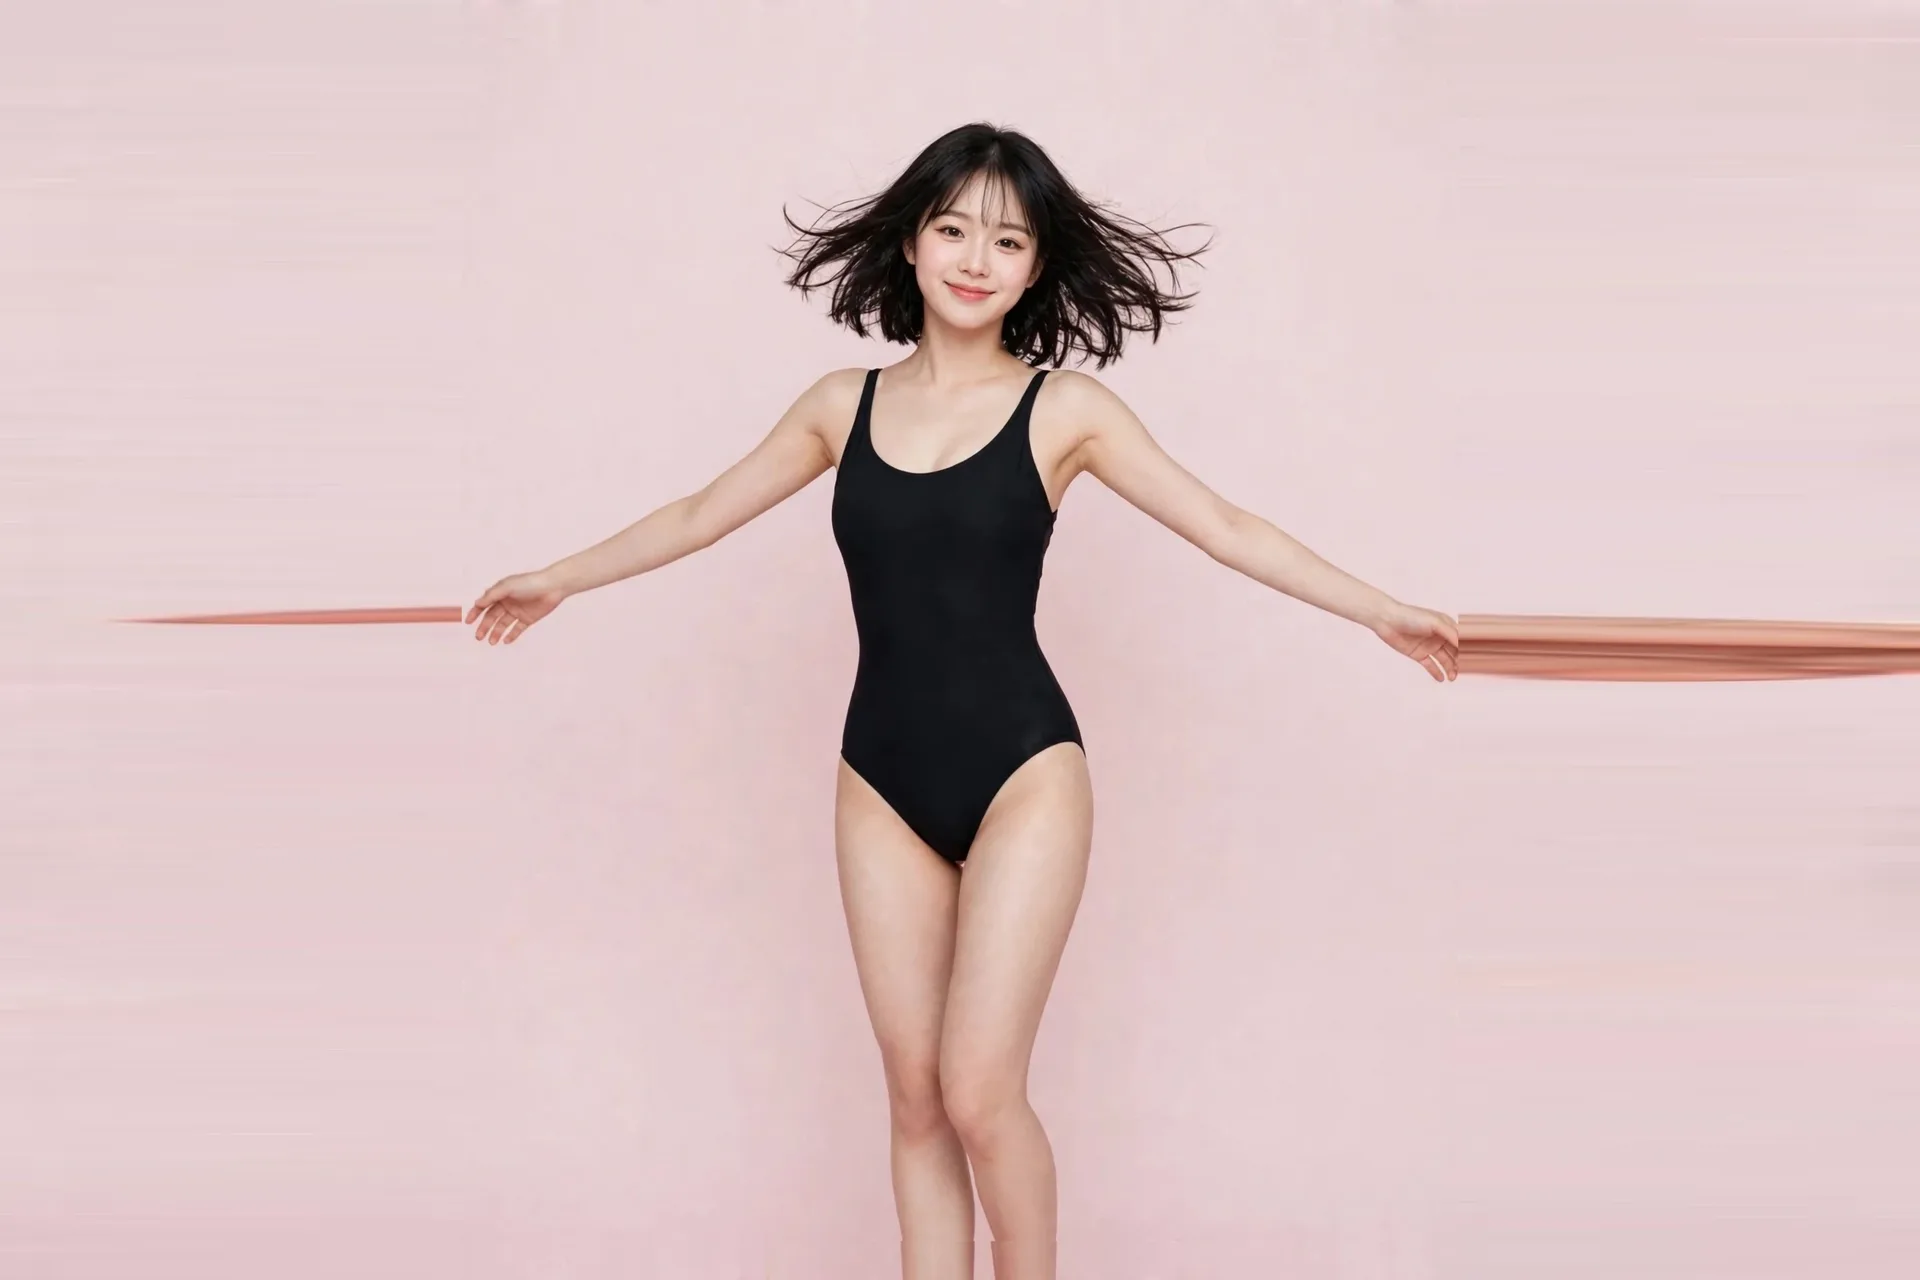
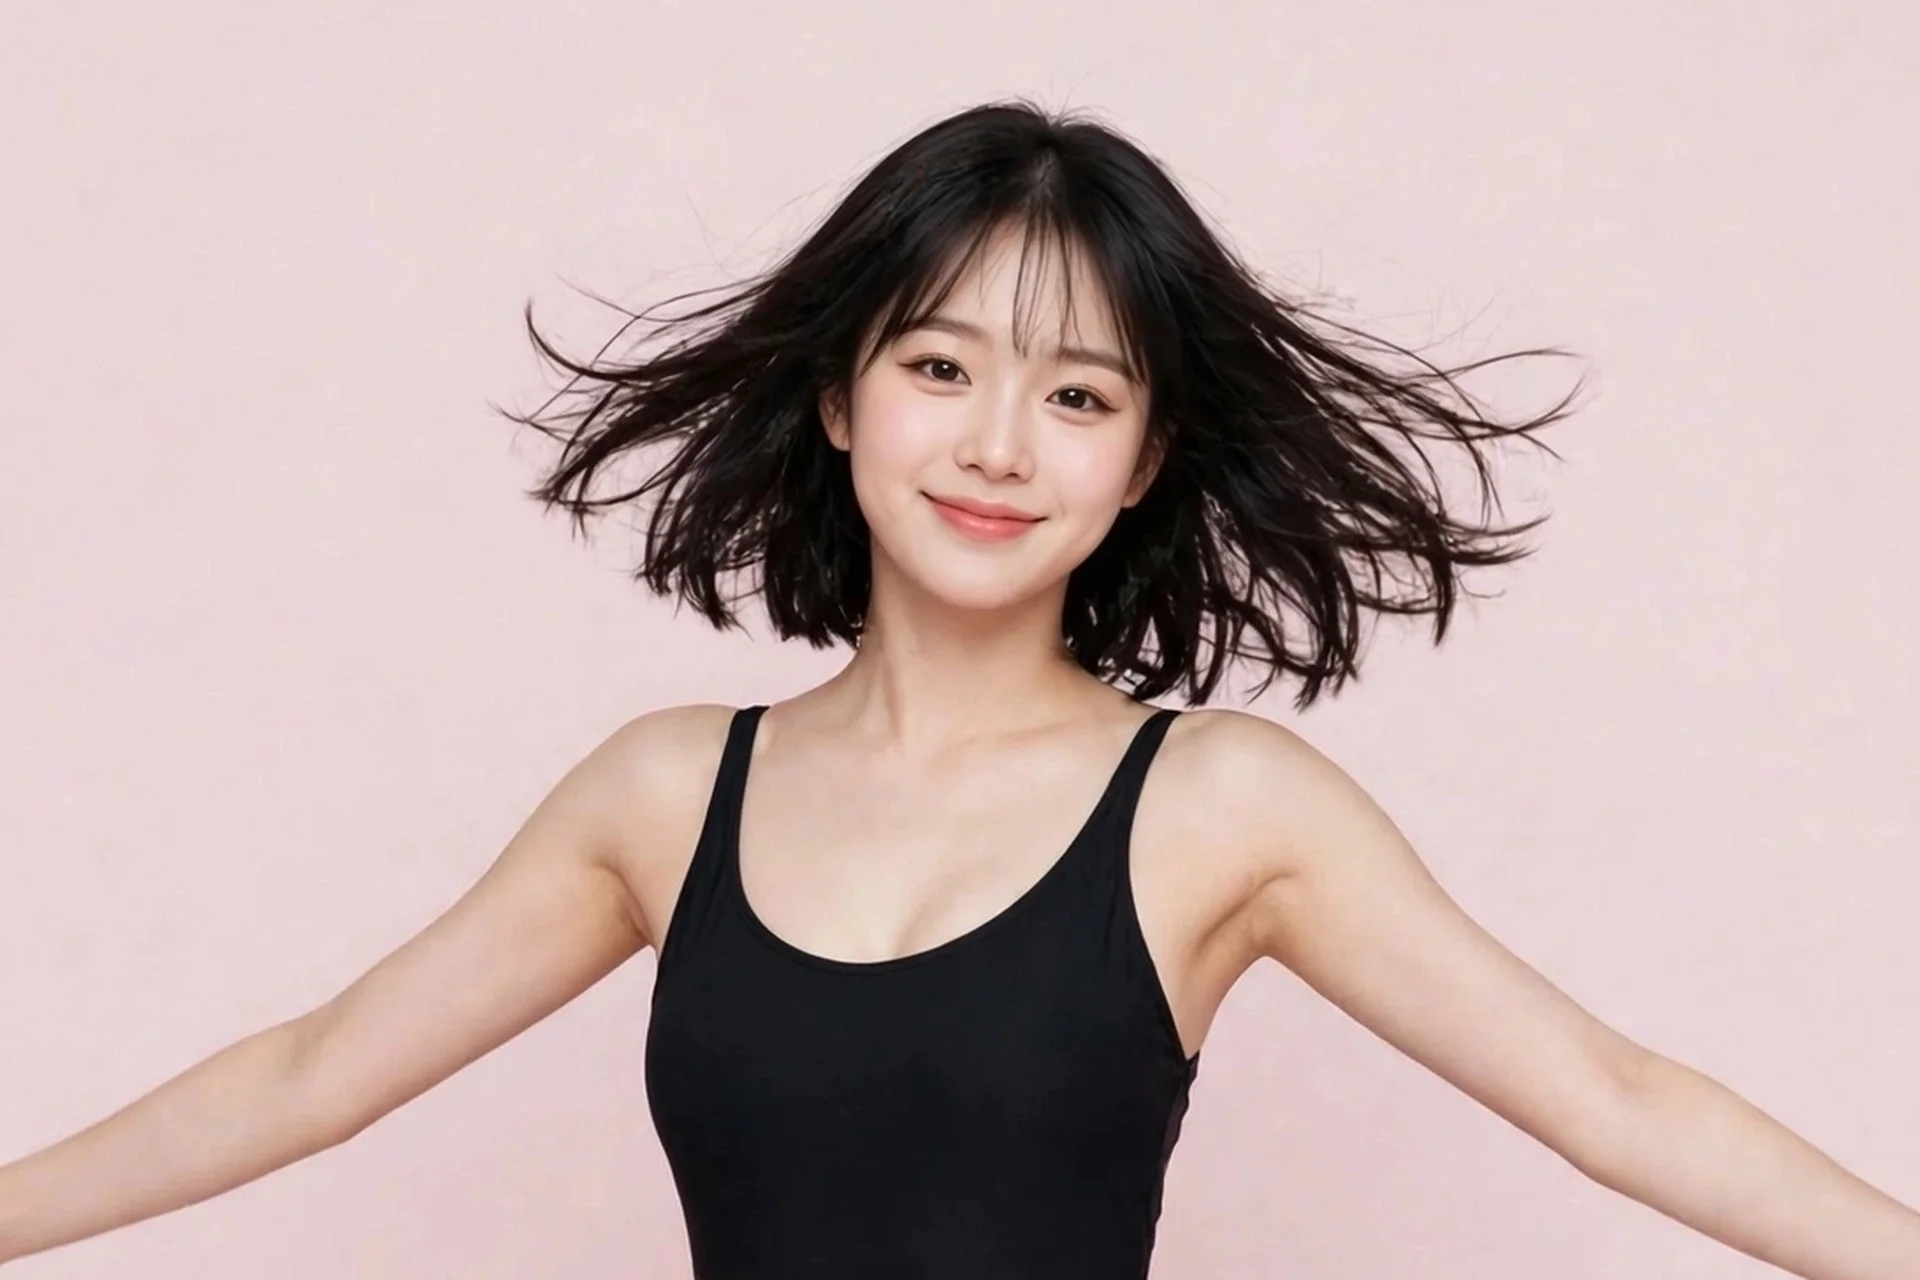
Fix Sena cuts batch 2: life 2 landscape regen, swim 8/13 smear crops (v259)

diff --git a/index.html b/index.html
@@ -51,7 +51,7 @@
 <body>
 <header>
   <h1 id="album-title">Mia's Album</h1>
-  <p id="album-sub">확정 얼굴 기준의 컷 모음 (총 177컷) · 버전 258</p>
+  <p id="album-sub">확정 얼굴 기준의 컷 모음 (총 177컷) · 버전 259</p>
   <div class="char-switch" role="tablist" aria-label="캐릭터 선택">
     <button type="button" class="char-btn active" id="btn-mia">Mia</button>
     <button type="button" class="char-btn" id="btn-sua">Sua</button>
@@ -426,7 +426,7 @@
     <div class="card" data-cap="Sena 스튜디오 수영복 10 — 버건디 원피스 수영복, 다리 뻗고 앉아 뒤로 기대 턱 든 포즈"><img src="img/sena-swim-w10.webp" alt="Sena 스튜디오 수영복 10"><div class="cap">버건디 원피스 · 앉아 기대기</div></div>
     <div class="card" data-cap="Sena 스튜디오 수영복 11 — 옐로 원피스 수영복, 양손 허리 전신"><img src="img/sena-swim-w11.webp" alt="Sena 스튜디오 수영복 11"><div class="cap">옐로 원피스 · 양손 허리</div></div>
     <div class="card" data-cap="Sena 스튜디오 수영복 12 — 핑크 원피스 수영복, 옆으로 앉아 한쪽 무릎 세우고 올려다봄"><img src="img/sena-swim-w12.webp" alt="Sena 스튜디오 수영복 12"><div class="cap">핑크 원피스 · 앉아 올려다봄</div></div>
-    <div class="card" data-cap="Sena 스튜디오 수영복 13 — 블랙 원피스 수영복, 두 팔 벌리고 머리카락 흩날리는 전신"><img src="img/sena-swim-w13.webp" alt="Sena 스튜디오 수영복 13"><div class="cap">블랙 원피스 · 팔 벌린 흩날림</div></div>
+    <div class="card" data-cap="Sena 스튜디오 수영복 13 — 블랙 원피스 수영복, 두 팔 벌린 줌인"><img src="img/sena-swim-w13.webp" alt="Sena 스튜디오 수영복 13"><div class="cap">블랙 원피스 · 팔 벌린 줌인</div></div>
   </div>
 </section>
 
@@ -988,27 +988,27 @@
     btnYuna.classList.toggle('active', name === 'yuna');
     if (name === 'ciel'){
       albumTitle.textContent = "Ciel's Album";
-      albumSub.textContent = '단발 귀여운상 기준의 컷 모음 (총 4컷) · 버전 258';
+      albumSub.textContent = '단발 귀여운상 기준의 컷 모음 (총 4컷) · 버전 259';
       document.title = "Ciel's Album";
     } else if (name === 'sena'){
       albumTitle.textContent = "Sena's Album";
-      albumSub.textContent = '시크한 단발 귀염상 기준의 컷 모음 (총 50컷) · 버전 258';
+      albumSub.textContent = '시크한 단발 귀염상 기준의 컷 모음 (총 50컷) · 버전 259';
       document.title = "Sena's Album";
     } else if (name === 'sua'){
       albumTitle.textContent = "Sua's Album";
-      albumSub.textContent = '차분한 귀염상 기준의 컷 모음 (총 223컷) · 버전 258';
+      albumSub.textContent = '차분한 귀염상 기준의 컷 모음 (총 223컷) · 버전 259';
       document.title = "Sua's Album";
     } else if (name === 'lena'){
       albumTitle.textContent = "Lena's Album";
-      albumSub.textContent = '긴 웨이브 청순상 기준의 컷 모음 (총 0컷) · 버전 258';
+      albumSub.textContent = '긴 웨이브 청순상 기준의 컷 모음 (총 0컷) · 버전 259';
       document.title = "Lena's Album";
     } else if (name === 'yuna'){
       albumTitle.textContent = "Yuna's Album";
-      albumSub.textContent = '긴 웨이브 청순 성숙상 기준의 컷 모음 (총 87컷) · 버전 258';
+      albumSub.textContent = '긴 웨이브 청순 성숙상 기준의 컷 모음 (총 87컷) · 버전 259';
       document.title = "Yuna's Album";
     } else {
       albumTitle.textContent = "Mia's Album";
-      albumSub.textContent = '확정 얼굴 기준의 컷 모음 (총 177컷) · 버전 258';
+      albumSub.textContent = '확정 얼굴 기준의 컷 모음 (총 177컷) · 버전 259';
       document.title = "Mia's Album";
     }
     cards = allCards.filter(c => c.offsetParent !== null);

diff --git a/sw.js b/sw.js
@@ -1,4 +1,4 @@
-const CACHE = 'influencer-album-v258';
+const CACHE = 'influencer-album-v259';
 const IMGCACHE = 'album-images-v1';
 const CORE = ['./', './index.html', './manifest.webmanifest', './icon-192.png', './icon-512.png',
   './img/face-anchor.webp', './img/sua-anchor-main2.webp', './img/ciel-anchor-main.webp', './img/sena-anchor-main.webp', './img/lena-face-anchor.webp', './img/yuna-anchor-main2.webp'];
